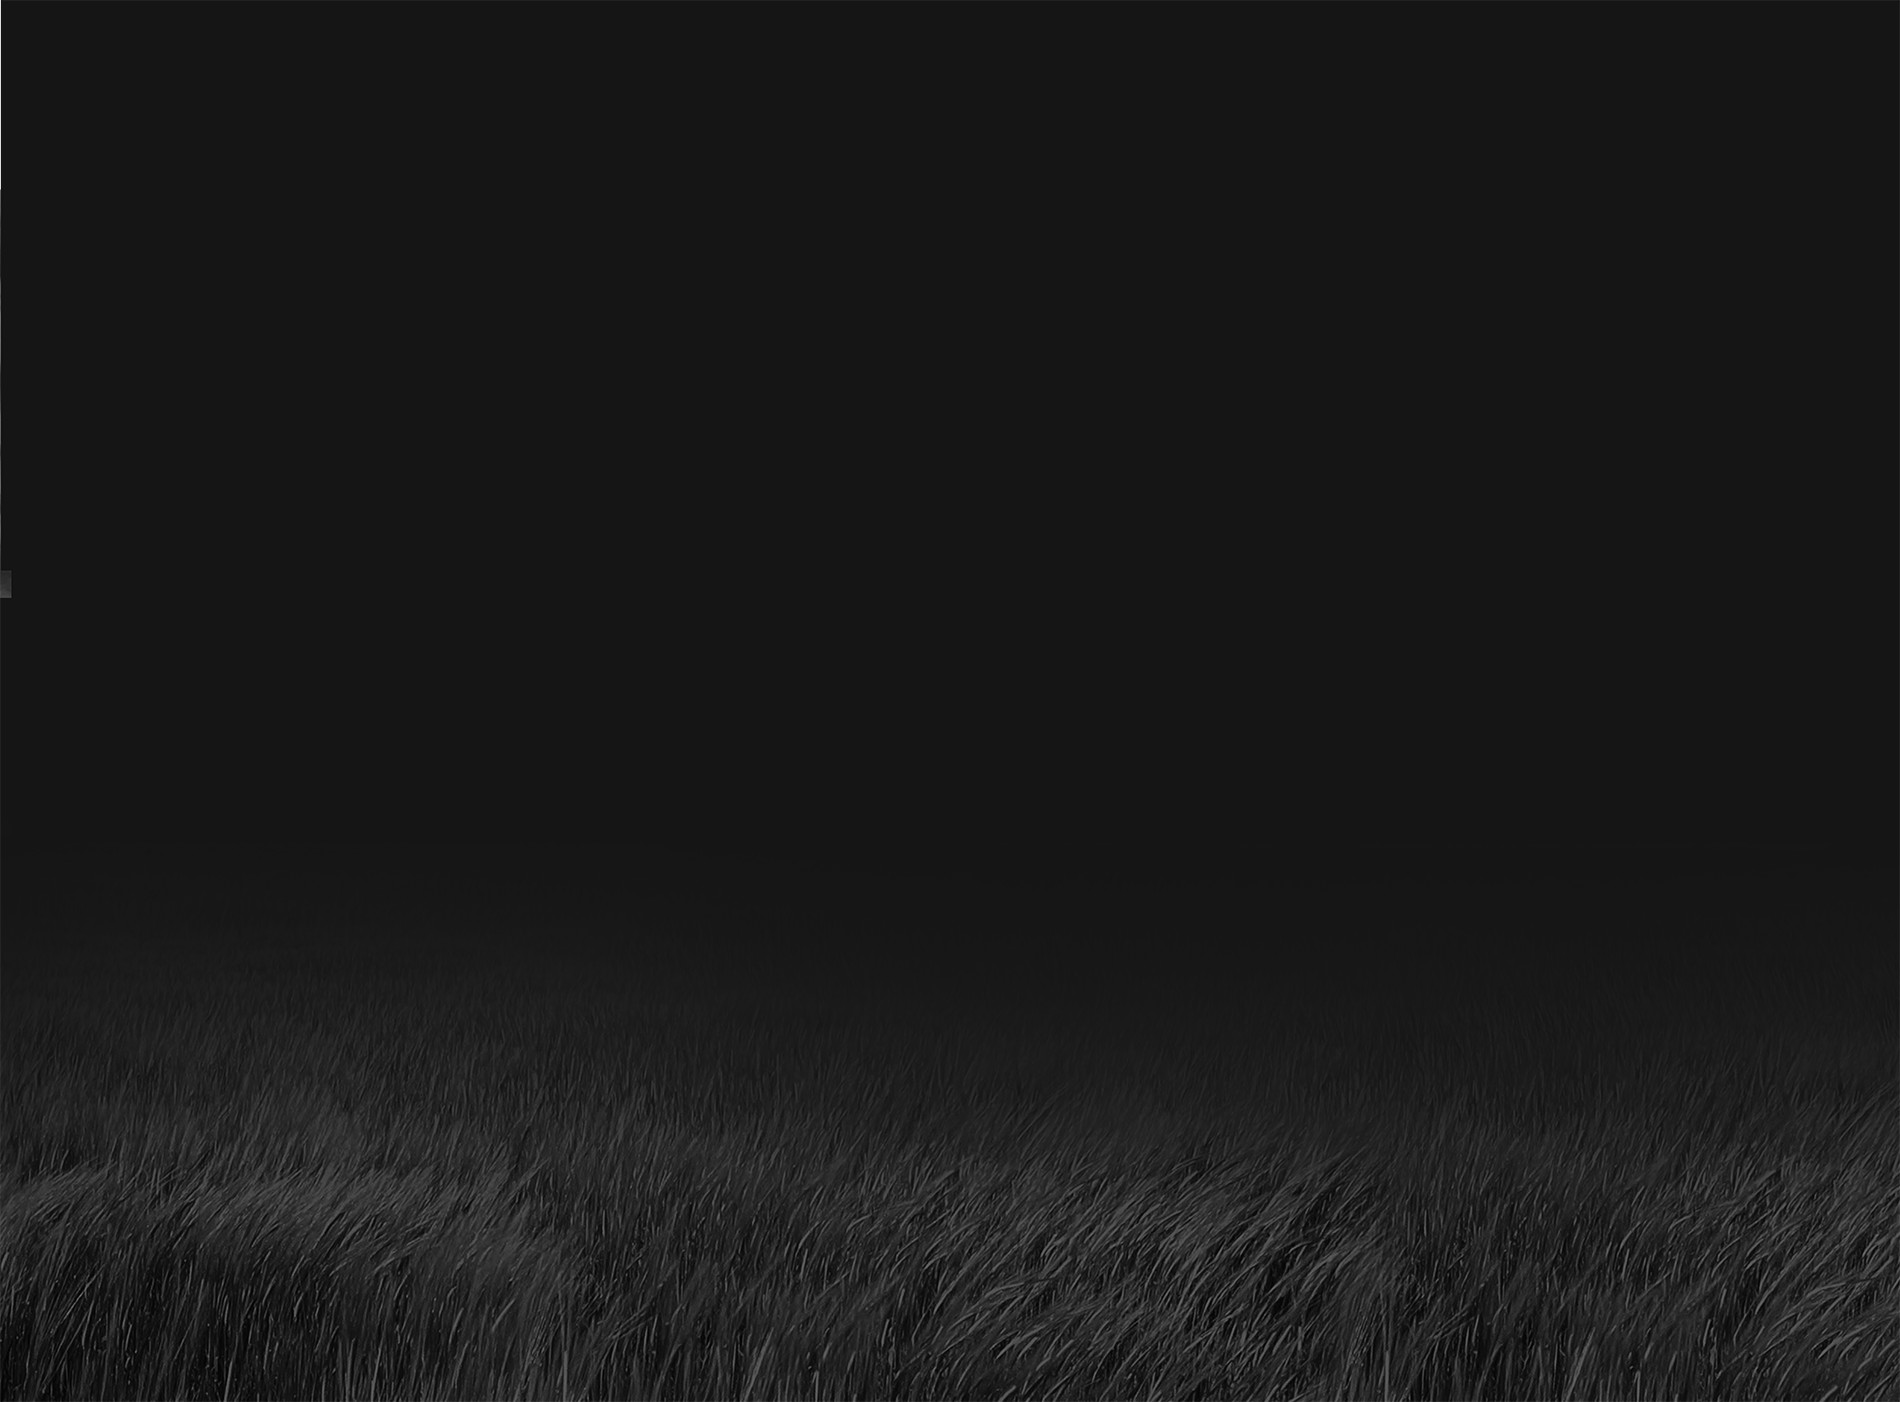
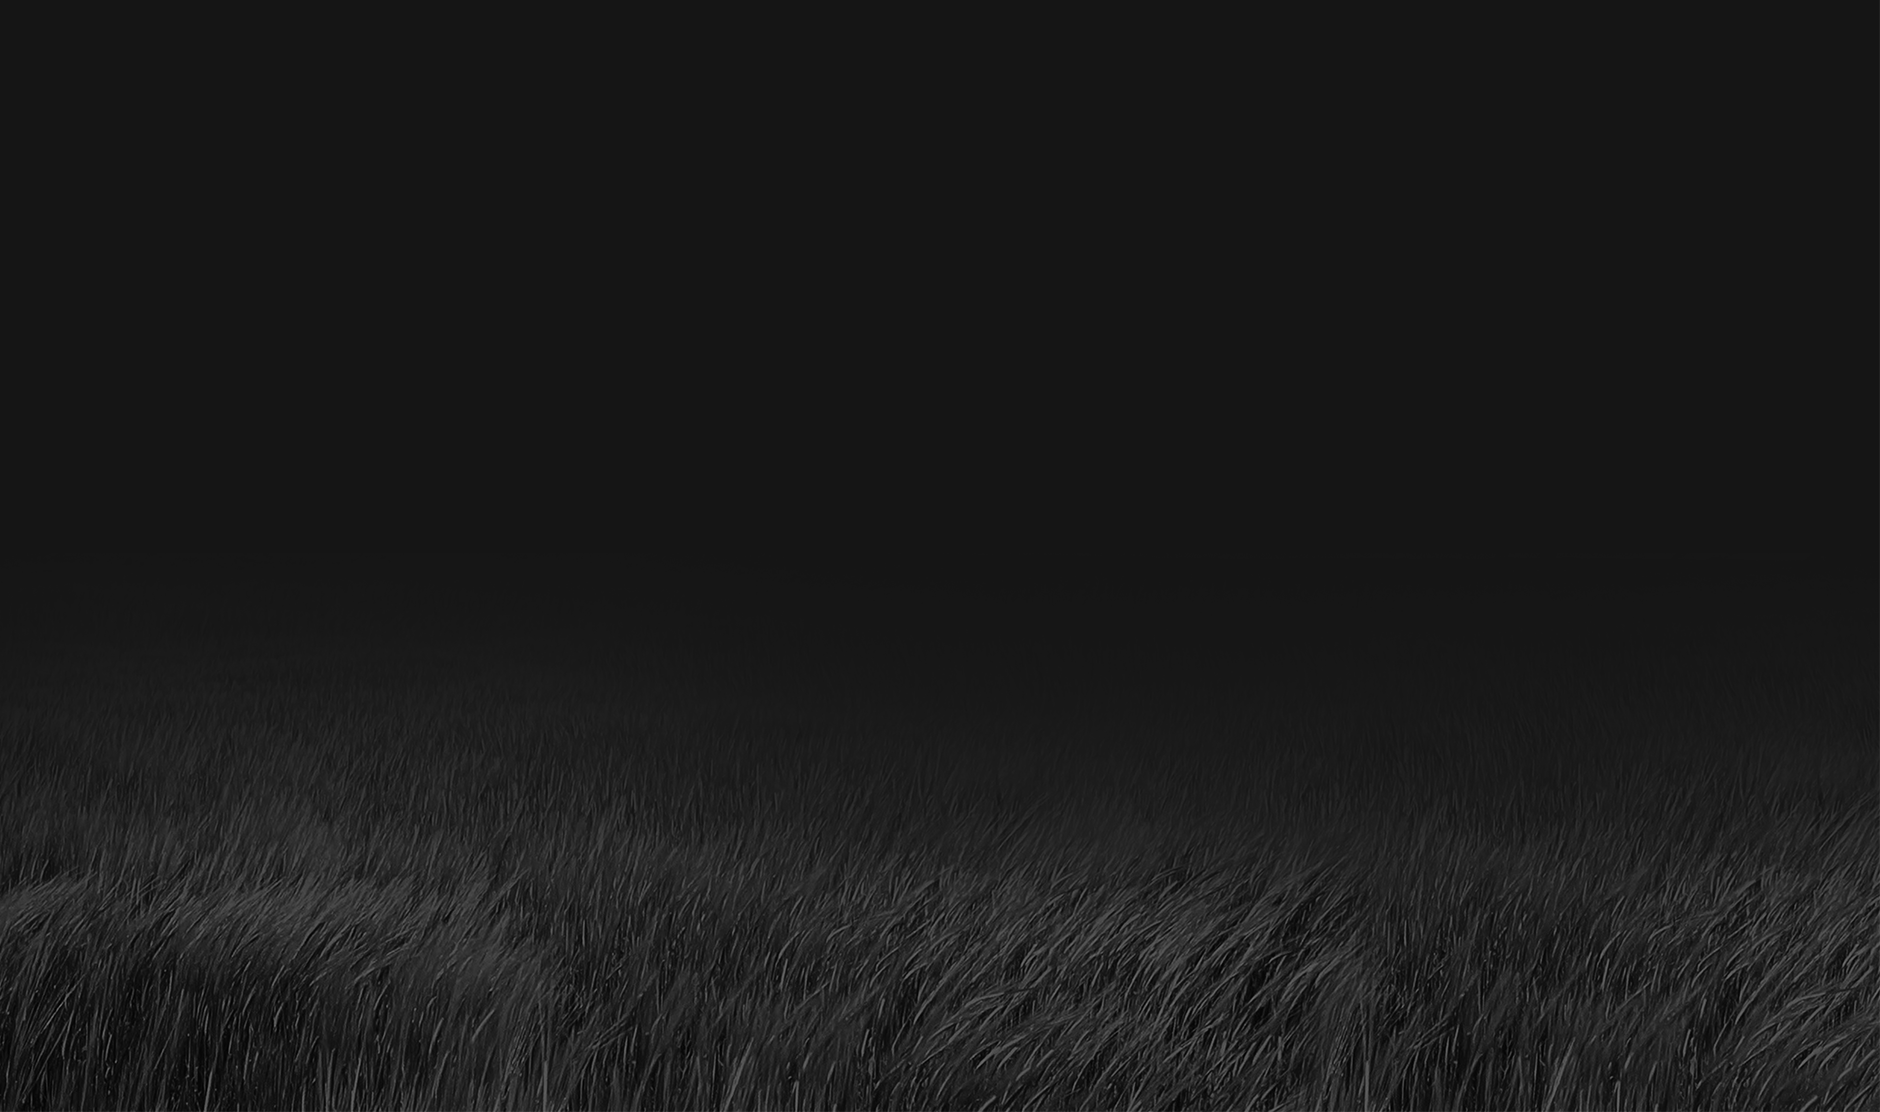
front

Changed region(s): [[0.0, 0.7644, 1.0, 1.0], [0.3702, 0.7644, 0.4011, 0.795]]

diff --git a/src/styles/custom.scss b/src/styles/custom.scss
@@ -49,6 +49,7 @@ h5{
     font-weight: 500 !important;
     height: 40px;
     font-family: "Arial";    
+    min-width: 180px
 }
 .btn-brown{
     color: #edb800;
@@ -69,7 +70,7 @@ h5{
 
 .home {
     .hero-section {
-        height: 100vh;
+        height: calc( 100vh + 200px);
         background-image: url(../assets/img/hero-back.png);
         background-size: cover;
         background-position: center;
@@ -80,7 +81,7 @@ h5{
             height: 80%;
             h2{
                 font-weight: 500 !important;
-                font-size: 40px;
+                font-size: 3.5rem;
                 @media (max-width: 500px) {
                     font-size: 30px;
                 }
@@ -232,6 +233,11 @@ h5{
             padding:6rem 0 12rem ;
         }
 
+        &.stable-coin{
+            .question-card{
+                width: 80%;
+            }
+        }
         .section-title {
             margin: 5rem 0;
             padding: 18px 0;
@@ -250,7 +256,7 @@ h5{
                 }
             }
         }
-
+       
         .question-card {
             background: white;
             padding: 3rem;
@@ -292,12 +298,14 @@ h5{
             color: transparent;
             h3{font-size: 28px;margin: 0;}
         }
-
+        
         .question-card {
             background: white;
             padding: 3rem;
             border-radius: 2rem;
             color: #151515;
+            width: 80%;
+            margin-left: auto;
             
             h5 {
                 margin-bottom: 1.5rem;
@@ -385,10 +393,10 @@ h5{
     .footOuter{
         background-image: url(../assets/img/footer-back.png);
         background-repeat: no-repeat;
-        background-size: cover;
-        background-position: bottom;
+        background-size: 100% ;
+        background-position: top;
         width: 100%;
-        min-height: 90vh;
+        min-height: 98vh;
         display: flex;
         flex-direction: column;
         justify-content: space-between;
@@ -400,6 +408,11 @@ h5{
         .contact-icons img{
             width: 22px;
             height: auto;
+        }
+    }
+    .footer-section{
+        img{
+            cursor: pointer;
         }
     }
 }

diff --git a/src/pages/Home.tsx b/src/pages/Home.tsx
@@ -30,7 +30,7 @@ const Home: React.FC = () => {
             </div>
             <div className="hero-section w-100">
               <div className="hero-container container">
-                <h2>Valhalla.finance is a semi closed-circuit defi application on the Binance Smart-Chain </h2>
+                <h2>Valhalla.finance is a defi application agregator on the Binance Smart-Chain </h2>
                 <div className="hero-buttons mt-4">
                   <button className="btn btn-primary mr-3 mt-3">Drakkar App <span>VALHA</span></button>
                   <button className="btn btn-primary mr-3 mt-3">Longhouse App</button>
@@ -117,7 +117,7 @@ const Home: React.FC = () => {
             
 
 
-            <div className="question-section">
+            <div className="question-section stable-coin">
               <div className="section-title">
                 <div className="container">
                   <h3>
@@ -250,8 +250,8 @@ const Home: React.FC = () => {
                     <p>The BSC Defi Dapp ecosystem</p>
                   </div>
                   <div className="contact-icons">
-                    <img src={TelegramIcon} alt="telegram" className="mr-4" />
-                    <img src={TwitterIcon} alt="twitter"/>
+                    <a href="#"><img src={TelegramIcon} alt="telegram" className="mr-4" /></a>
+                    <a href="#"><img src={TwitterIcon} alt="twitter"/></a>
                   </div>
                 </div>
               </div>
